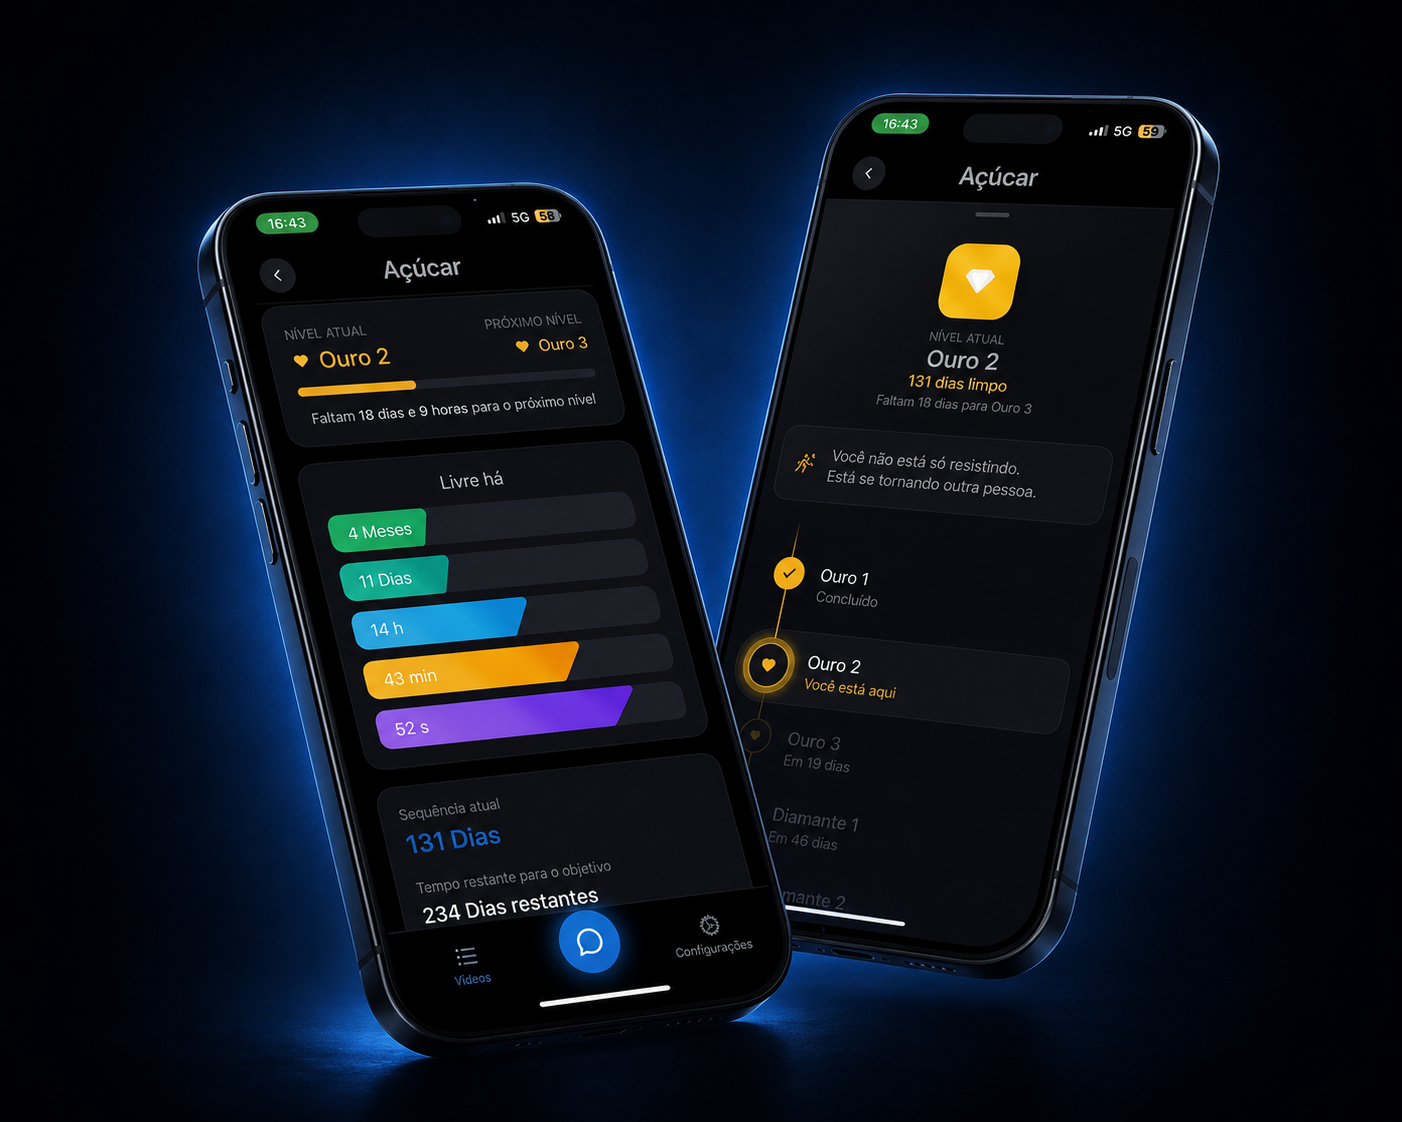
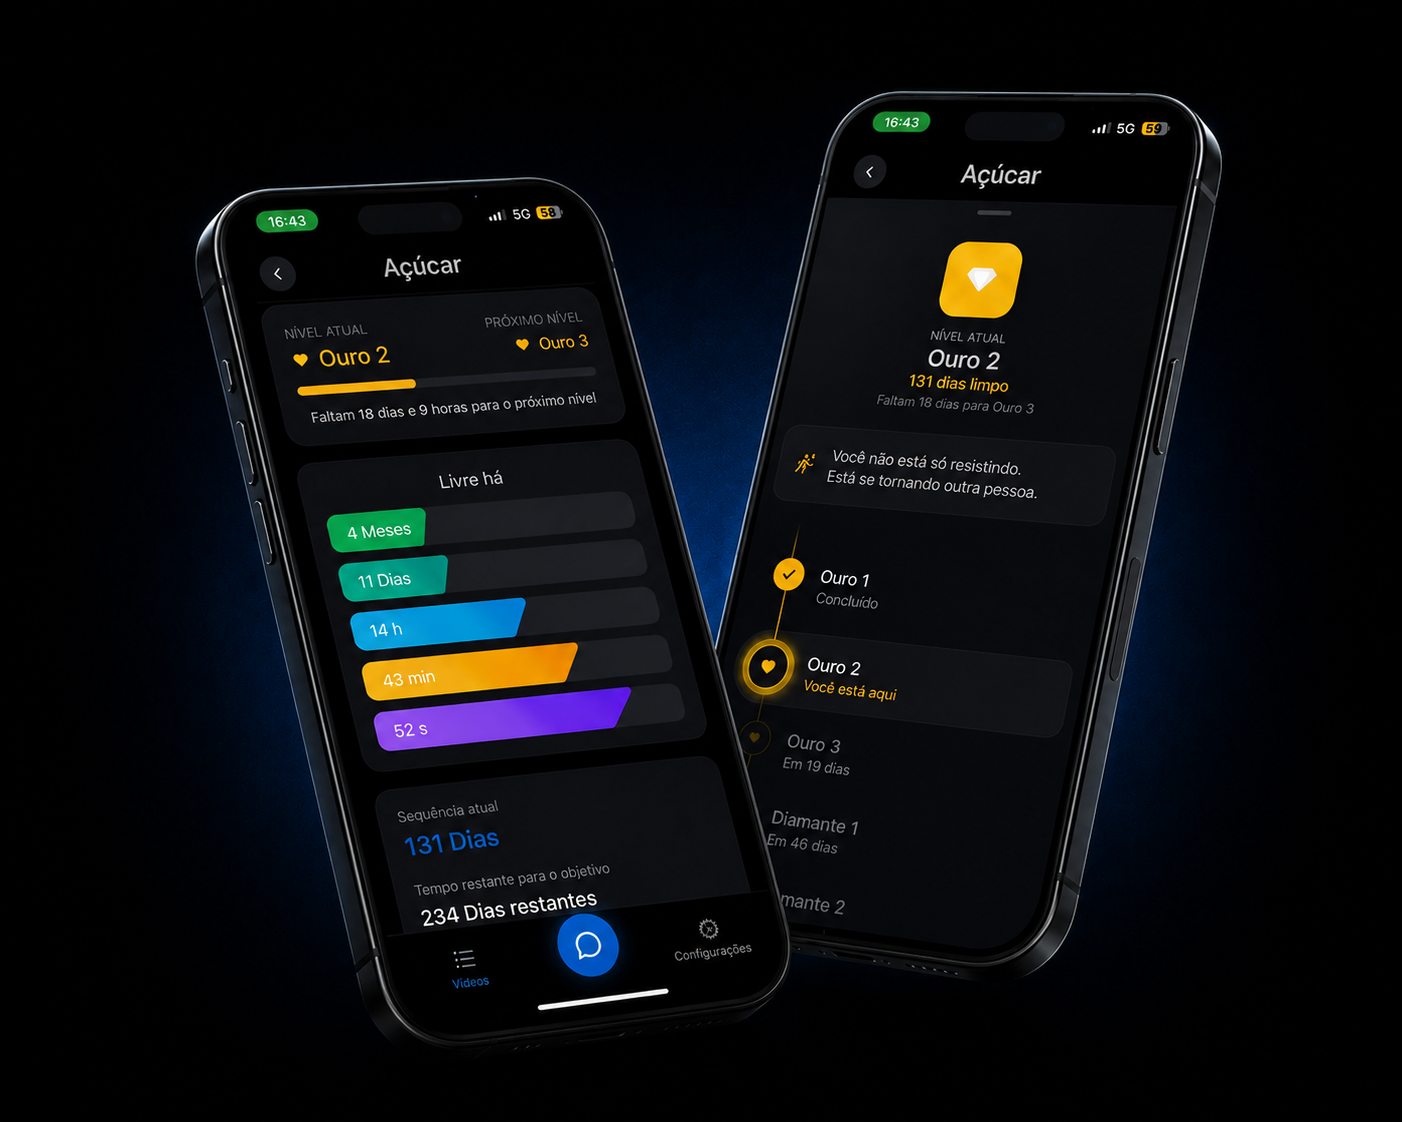
new

diff --git a/index.html b/index.html
@@ -25,12 +25,13 @@
             -webkit-font-smoothing: antialiased;
         }
 
-        body {
+        html, body {
             background-color: var(--black);
             color: var(--white);
             font-family: var(--font-main);
             line-height: 1.45;
             overflow-x: hidden;
+            max-width: 100%;
             scroll-behavior: smooth;
         }
 
@@ -341,6 +342,13 @@
             width: 100%;
         }
 
+        .mockup-image {
+            max-width: 100%;
+            height: auto;
+            display: block;
+            margin: 0 auto;
+        }
+
         /* --- Progress Card Component (Final) --- */
         .progress-card {
             background: #121212;
@@ -531,7 +539,7 @@
     </section>
 
     <!-- SEÇÃO DE DESCRIÇÃO PREMIUM -->
-    <section id="section-description" style="min-height: auto; padding: 120px 24px 40px; background: radial-gradient(circle at center, rgba(10,132,255,0.06) 0%, rgba(0,0,0,0) 60%), var(--black);">
+    <section id="section-description" style="min-height: auto; padding: 120px 24px 0; background: radial-gradient(circle at center, rgba(10,132,255,0.06) 0%, rgba(0,0,0,0) 60%), var(--black);">
         <div class="container">
             <h2 class="reveal" style="font-size: clamp(32px, 8vw, 64px); font-weight: 700; margin-bottom: 32px;">Recupere o controle. <span style="color: var(--blue);">Um dia de cada vez.</span></h2>
             <p class="reveal" style="color: var(--gray); font-size: clamp(18px, 2.5vw, 22px); font-weight: 600; line-height: 1.6; max-width: 750px; margin: 0 auto; text-align: center;">
@@ -542,9 +550,9 @@
     </section>
 
     <!-- SEÇÃO DE MOCKUP (IMAGEM) -->
-    <section id="section-mockup-duo">
+    <section id="section-mockup-duo" style="padding-top: 0; margin-top: -30px;">
         <div class="reveal" style="width: 100%; display: flex; justify-content: center;">
-            <img src="odat-dual-mockup8.png" class="mockup-image" alt="ODAT App Mockup" style="max-width: 450px;">
+            <img src="odat-dual-mockup8.png" class="mockup-image" alt="ODAT App Mockup" style="max-width: 600px;">
         </div>
     </section>
 
@@ -635,23 +643,32 @@
     <section id="section-4">
         <div class="container">
             <div class="reveal" style="transition-delay: 0.1s; width: 100%; display: flex; justify-content: center; margin-bottom: 24px;">
-                <img src="odat-dual-mockup10.png" class="mockup-image" alt="ODAT Support Mockup" style="max-width: 550px;">
+                <img src="odat-dual-mockup14.jpg" class="mockup-image" alt="ODAT Support Mockup" style="max-width: 550px;">
             </div>
 
             <h2 class="hero-title-compact reveal" style="transition-delay: 0.3s;">Apoio real, quando importa.</h2>
             
-            <div class="sub-headline reveal" style="transition-delay: 0.4s; margin-bottom: 24px;">
-                Conecte pessoas de confiança.
+            <div class="sub-headline reveal" style="transition-delay: 0.4s; margin: 45px 0 75px 0;">
+                Conecte pessoas de confiança.<br>
                 Acesse suporte profissional.
             </div>
 
-            <div class="sub-headline reveal" style="transition-delay: 0.7s; margin-bottom: 40px;">
-                Uma rede pronta para te sustentar
+            <div class="blue-glow-line reveal" style="transition-delay: 0.5s; margin: 0 auto;"></div>
+
+            <div class="sub-headline reveal" style="transition-delay: 0.6s; margin: 45px 0 75px 0;">
+                Uma rede pronta para te sustentar<br>
                 nos momentos em que você mais precisa.
             </div>
 
-            <div class="sub-headline reveal" style="transition-delay: 1.0s; margin-bottom: 40px;">
-                A recaída quase sempre começa em silêncio.<br><br>
+            <div class="blue-glow-line reveal" style="transition-delay: 0.7s; margin: 0 auto;"></div>
+
+            <div class="sub-headline reveal" style="transition-delay: 0.8s; margin: 45px 0 75px 0;">
+                A recaída quase sempre começa em silêncio.
+            </div>
+
+            <div class="blue-glow-line reveal" style="transition-delay: 0.9s; margin: 0 auto;"></div>
+
+            <div class="sub-headline reveal" style="transition-delay: 1.0s; margin: 45px 0 75px 0;">
                 O apoio também.
             </div>
 
@@ -752,7 +769,6 @@
             </div>
         </div>
     </section>
-
 
     <style>
         /* --- Modal Lightbox Styles --- */